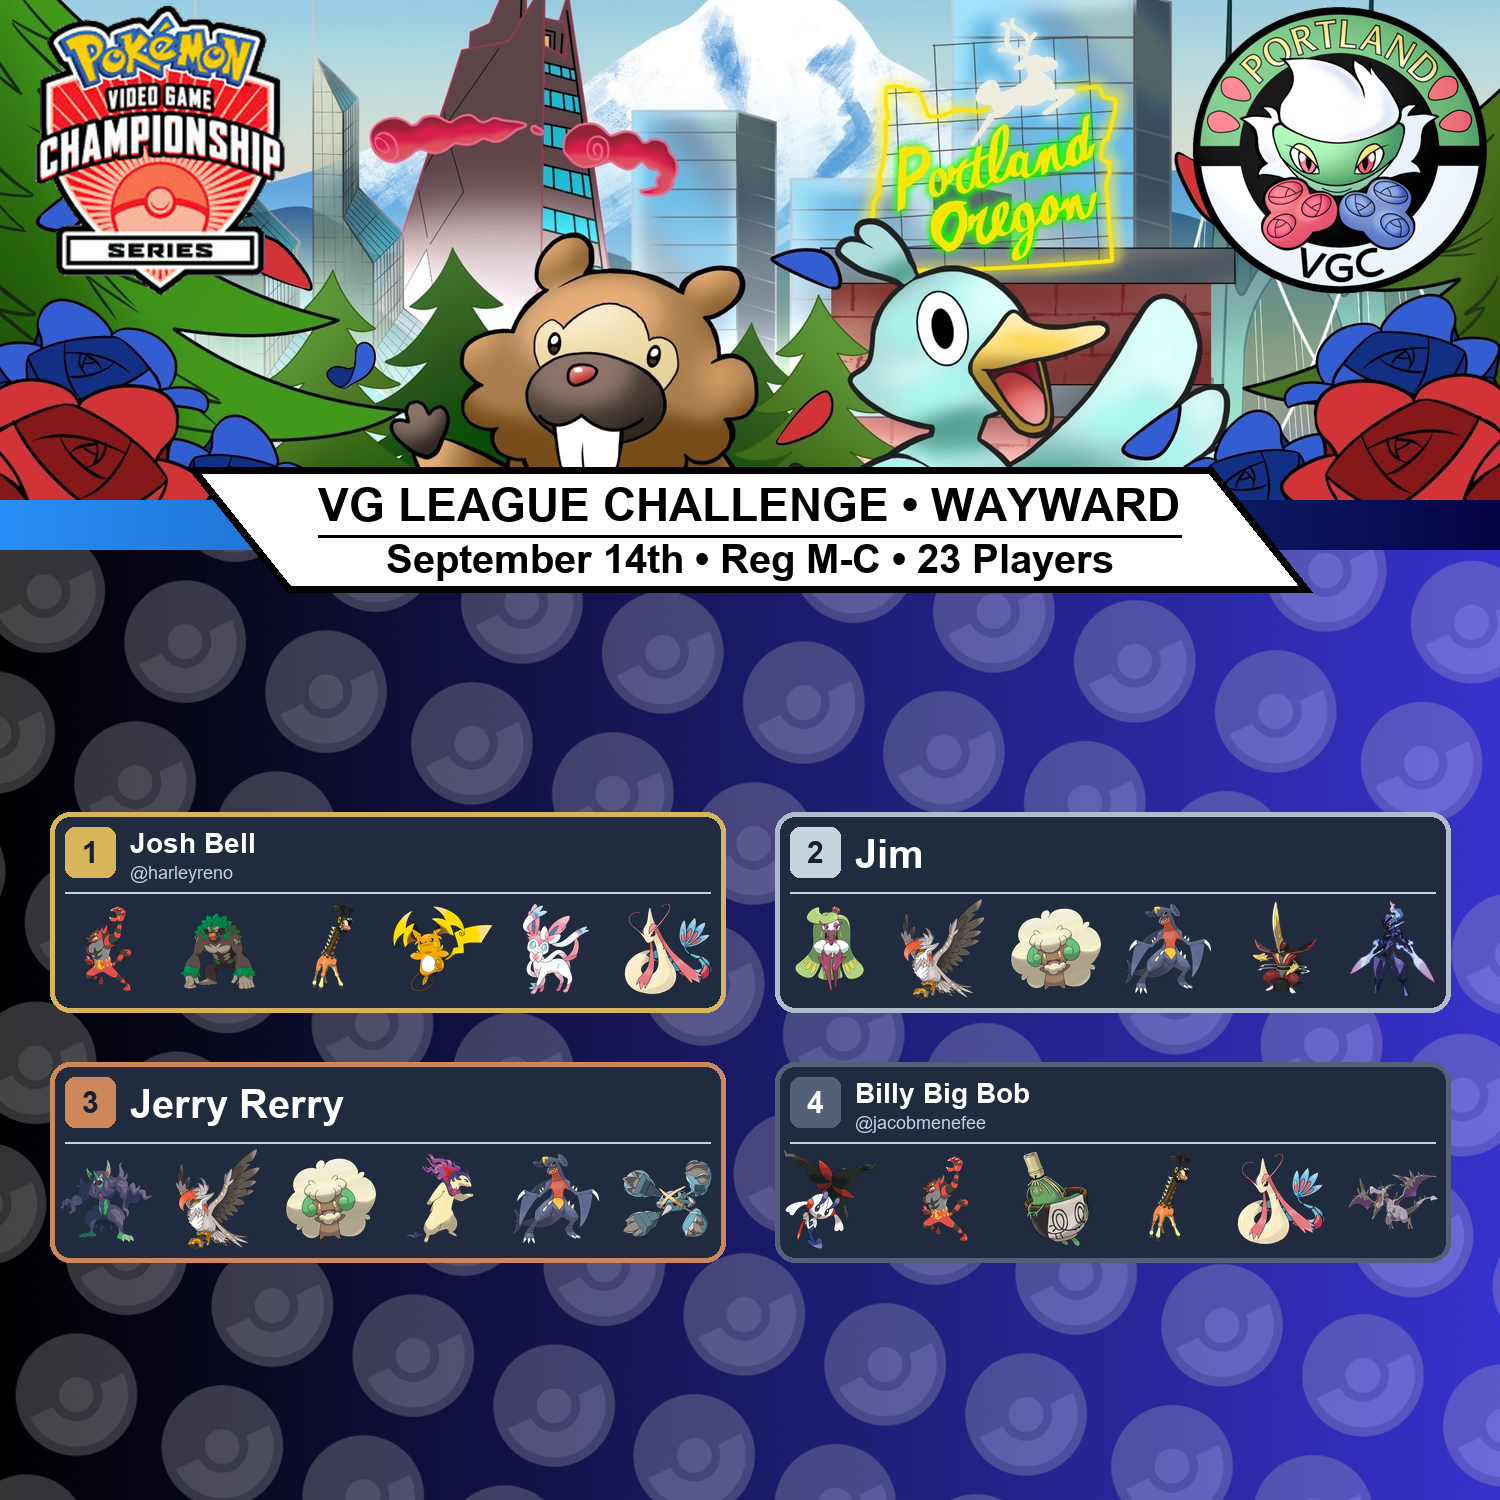
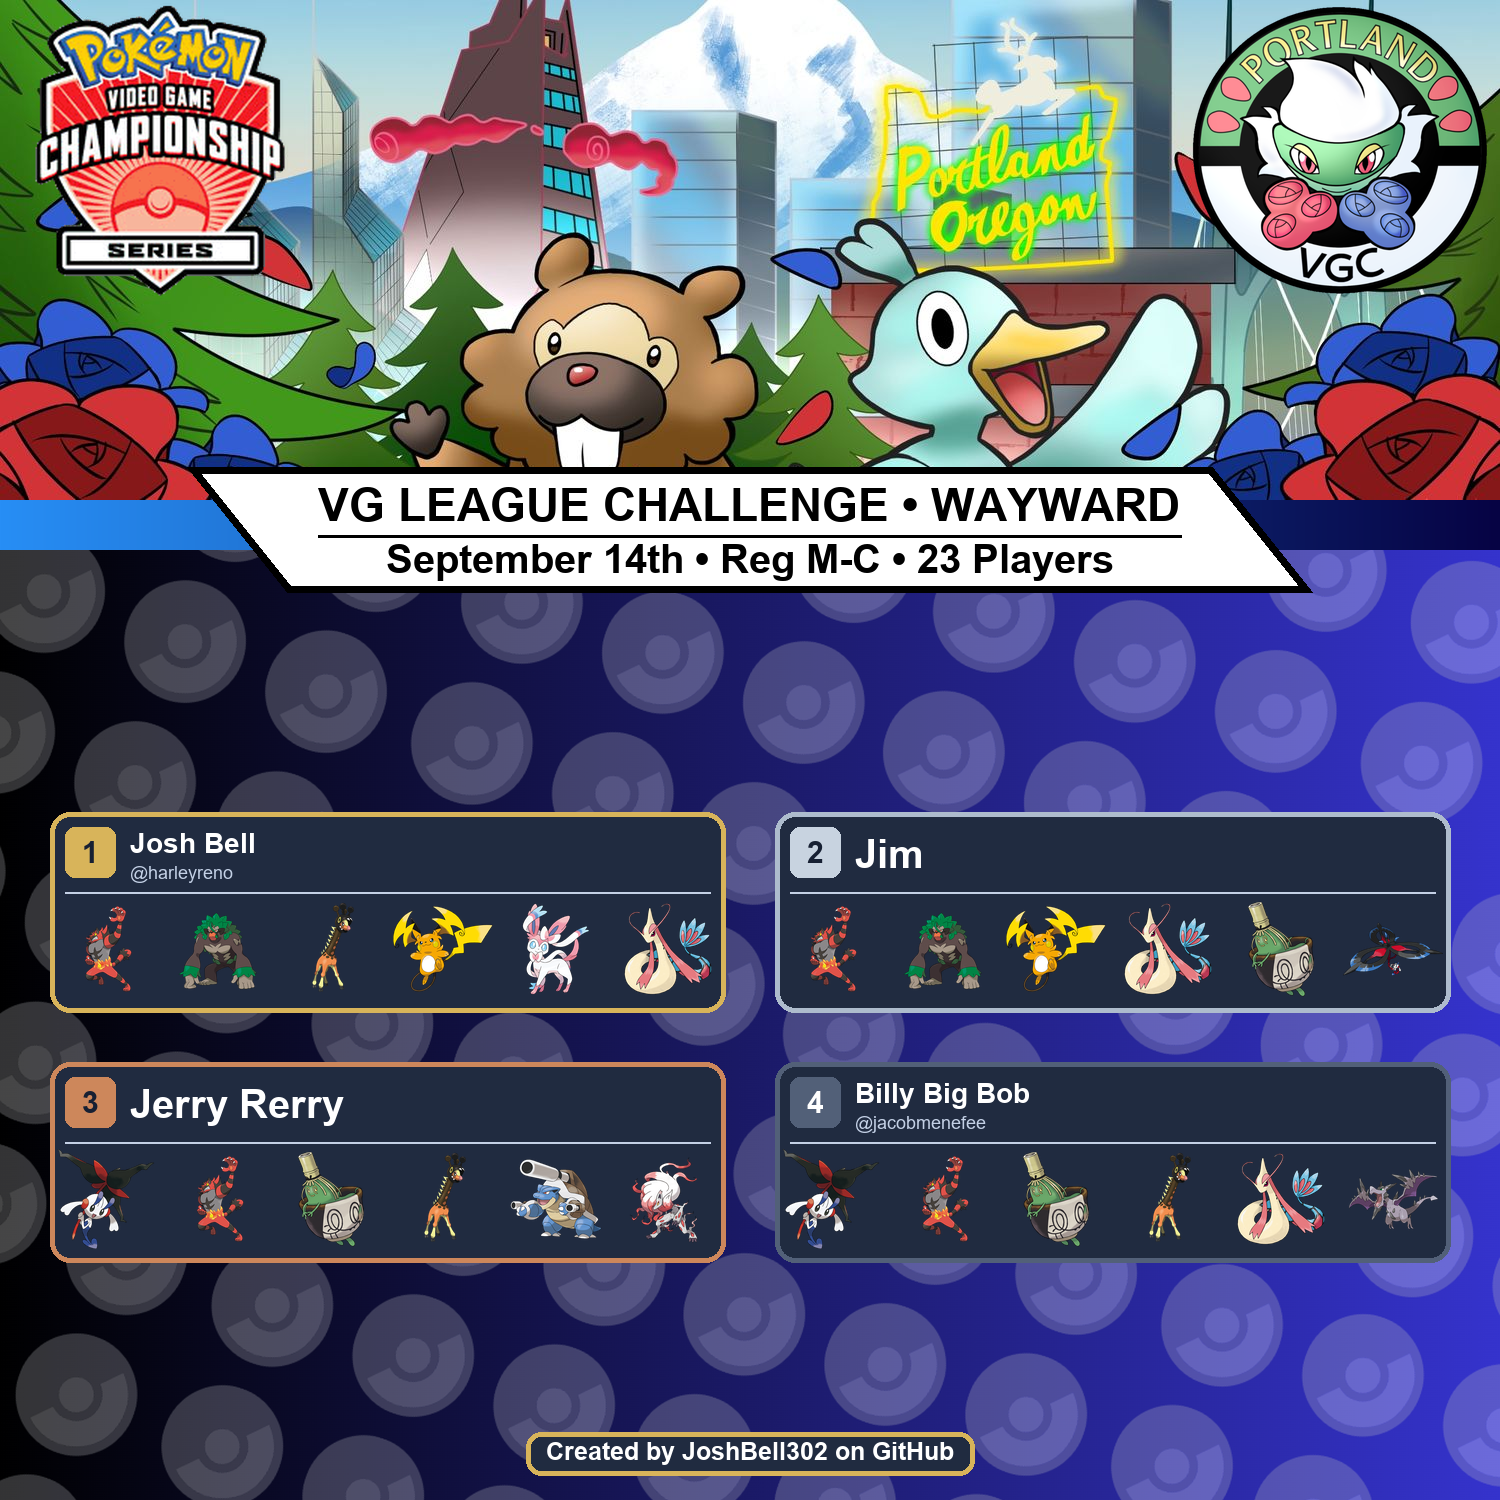
Added a signature to the image

diff --git a/generate_standings.py b/generate_standings.py
@@ -123,9 +123,16 @@ TRAINER_NAME_BORDER = 4
 TRAINER_POKEMON_SPRITE_SIZE = 100
 TRAINER_POKEMON_SPRITE_BORDER = 7
 
+SIGNATURE_LIFT = 25
+SIGNATURE_PLATE_RADIUS = 15
+SIGNATURE_PLATE_BORDER = 5
+SIGNATURE_PADDING = [20, 10] # [x, y]
+SIGNATURE = "Created by JoshBell302 on GitHub"
+
 CARD_COLOR = "#202B40"
 TEXT_COLOR = "#FFFFFF"
 MUTED_COLOR = "#C3D0E5"
+SIGNATURE_BORDER_COLOR = "#D8B45A"
 PLACEMENT_COLORS = {
     1: {
         "border": "#D8B45A",
@@ -560,6 +567,43 @@ def get_card_positions(image_width, image_height, count, top):
         positions.append((x, y, x + card_width, y + card_height))
     return positions
 
+def draw_signature(image):
+    # Create the draw object and Font
+    draw = ImageDraw.Draw(image)
+    font = ImageFont.truetype("arialbd.ttf", 25)
+
+    # Create the textbox for text calculations
+    textbox_signature = draw.textbbox((0, 0), SIGNATURE, font=font)
+    text_width = textbox_signature[2] - textbox_signature[0]
+    text_height = textbox_signature[3] - textbox_signature[1]
+
+    # Calculate plate dimensions
+    plate_width = text_width + SIGNATURE_PADDING[0] * 2
+    plate_height = text_height + SIGNATURE_PADDING[1] * 2
+
+    # Center horizontally at the bottom of the image
+    x = (image.width - plate_width) // 2
+    y = image.height - plate_height - SIGNATURE_LIFT
+
+    # Draw rounded rectangle with border
+    draw.rounded_rectangle(
+        (x, y, x + plate_width, y + plate_height),
+        radius=SIGNATURE_PLATE_RADIUS,
+        fill=CARD_COLOR,
+        outline=SIGNATURE_BORDER_COLOR,
+        width=SIGNATURE_PLATE_BORDER
+    )
+
+    # Center the text inside the plate and draw it
+    text_x = x + (plate_width - text_width) // 2 - textbox_signature[0]
+    text_y = y + (plate_height - text_height) // 2 - textbox_signature[1]
+    draw.text(
+        (text_x, text_y),
+        SIGNATURE,
+        font=font,
+        fill=TEXT_COLOR
+    )
+
 """
 This will take the Standings of the players from the given CSV file and then draw them to the Standings image
 """
@@ -612,4 +656,5 @@ if __name__ == "__main__":
         info="September 14th • Reg M-C • 23 Players"
     )
     draw_standings(standings_image)
+    draw_signature(standings_image)
     standings_image.save(filename)
